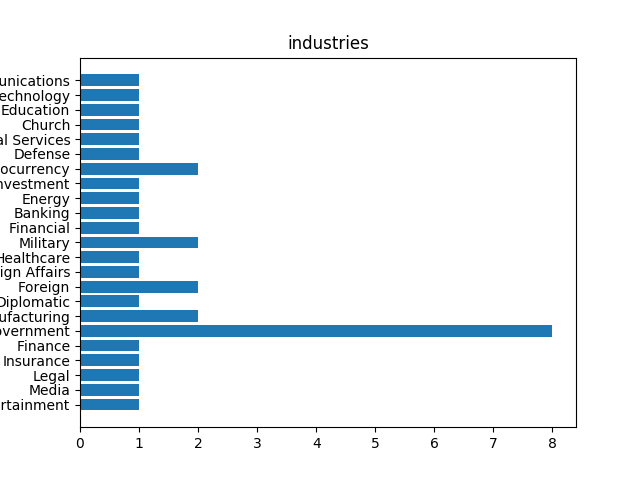
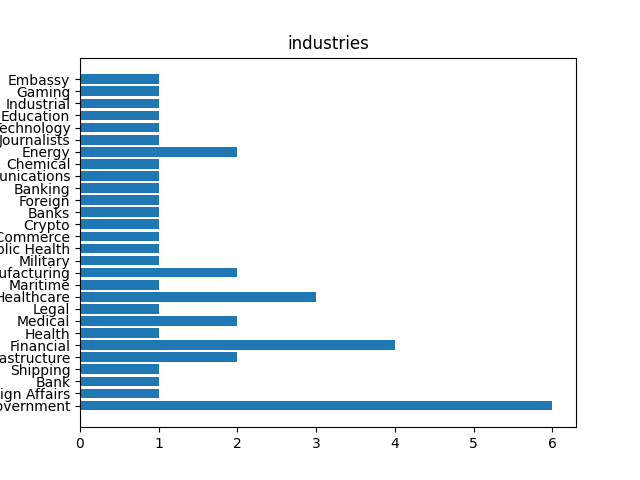
changes

diff --git a/SBES/app.py b/SBES/app.py
@@ -43,7 +43,7 @@ if response.status_code == 200:
     df = spark.read.format("json").option("inferSchema","true") .load("Data1.json")
     df.createOrReplaceTempView("pulse")#pravim tabelu koja se zove puls
             
-    '''def plot(dict, parameter):
+    def plot(dict, parameter):
         group_data = list(dict.values())
         group_names = list(dict.keys())
         group_mean = np.mean(group_data) 
@@ -187,8 +187,7 @@ if response.status_code == 200:
         ax1.set_title('2023 year')
         plt.savefig('Time.png')
         
-       
-   '''
+
 
     
 
@@ -227,11 +226,9 @@ if response.status_code == 200:
                 new_dict = dict(malware_dict, **temp_malware_dict)
                 country_dict.update({country:new_dict})
         print(country_dict)                   
-    '''
-    display_data_tags()
-   
     
-   
+    display_data_tags()
+
     #TARGETED COUNTRIES
     display_data("targeted_countries")
     
@@ -241,10 +238,9 @@ if response.status_code == 200:
     #INDUSTRIES
     display_data("industries")
     
-   
     display_data_adversary()
     
-    threatNumOverTime()'''
+    threatNumOverTime()
     malware_families_in_targeted_country()
 
    
